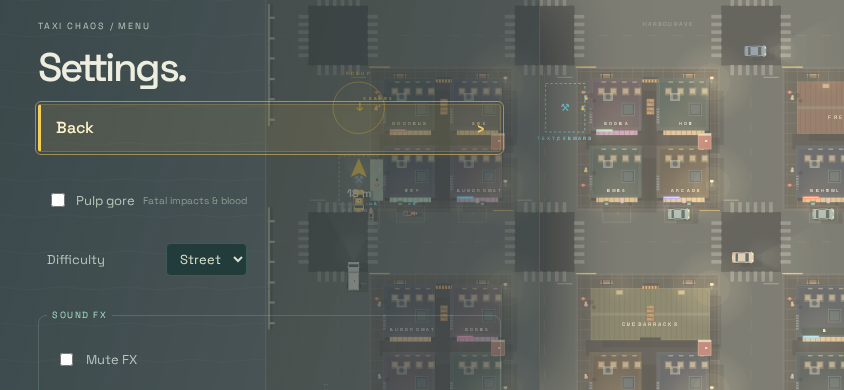
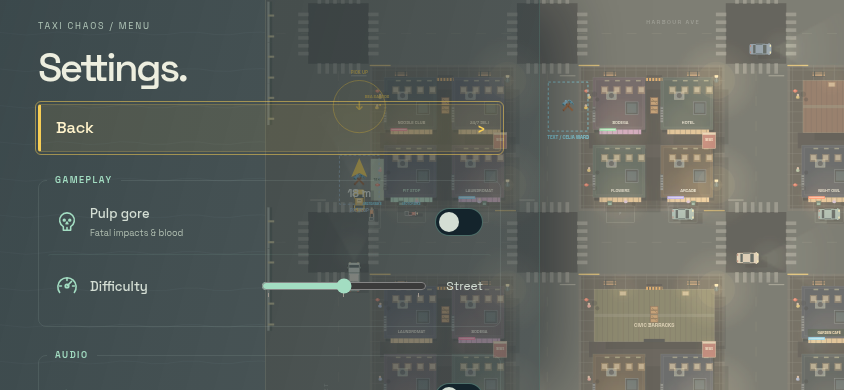
Organize game settings with switches and sliders (#38)
* Organize settings with arrow controls and top-level credits

* Use switches and sliders for game settings

* Encapsulate settings behaviour in typed switch and slider controls

---------

diff --git a/src/game-drawer.ts b/src/game-drawer.ts
@@ -1,8 +1,8 @@
 import type { Game } from './game';
 import type { AudioFX } from './audio';
-import type { Difficulty } from './rules';
+import { createSettings, type SettingsControls } from './settings';
+import { bindSettingControls } from './setting-controls';
 import type { Allegation } from './campaign/model';
-import { bindAudioControls } from './audio-controls';
 import { DrawerMenu } from './drawer-menu';
 import { drawerMarkup, drawerParent, isDrawerPage } from './drawer-view';
 import { splashPrompts, type InputDevice } from './splash';
@@ -10,12 +10,15 @@ import type { DrawerPage } from './drawer-markup';
 
 // Owns only the title/pause drawer. Gameplay, garage and recovery stay in main.
 export class GameDrawer {
+  private settings: SettingsControls;
+  private refreshSettings = () => {};
   private page: DrawerPage = 'home';
   private transition?: Animation;
   private selections = new Map<DrawerPage, string>();
   private menu: DrawerMenu;
   private device: InputDevice = 'keyboard';
   constructor(private root: HTMLElement, private options: { game: () => Game; audio: AudioFX; saved: boolean; play: () => void }) {
+    this.settings = createSettings(options.game, options.audio);
     this.menu = new DrawerMenu(root, () => this.active && !this.transition && !root.closest('[inert]'));
     root.addEventListener('click', event => {
       const button = event.target instanceof Element ? event.target.closest<HTMLButtonElement>('button') : null;
@@ -33,11 +36,6 @@ export class GameDrawer {
       if (button.dataset.submit && game.submitMaterial(button.dataset.submit)) this.refresh();
       if (button.dataset.publish && game.requestPublication(button.dataset.publish as Allegation)) this.refresh();
     });
-    root.addEventListener('change', event => {
-      const input = event.target as HTMLInputElement | HTMLSelectElement;
-      if (input.id === 'gore-option') options.game().configure({ gore: (input as HTMLInputElement).checked });
-      if (input.id === 'difficulty-option') options.game().configure({ difficulty: input.value as Difficulty });
-    });
     root.addEventListener('input', event => {
       if ((event.target as HTMLElement).id === 'notebook-search') this.filterNotebook();
     });
@@ -49,13 +47,9 @@ export class GameDrawer {
   }
   refresh() {
     this.transition?.cancel(); this.transition = undefined;
-    // Keep native controls mounted: changing a setting needs no DOM/focus rebuild.
-    if (this.page === 'settings' && this.root.dataset.page === 'settings') {
-      this.root.classList.add('splash-modal');
-      const { settings } = this.options.game();
-      this.root.querySelector<HTMLInputElement>('#gore-option')!.checked = settings.gore;
-      this.root.querySelector<HTMLSelectElement>('#difficulty-option')!.value = settings.difficulty;
-    } else this.paint();
+    this.root.classList.add('splash-modal');
+    if (this.page === 'settings' && this.root.dataset.page === 'settings') this.refreshSettings();
+    else this.paint();
   }
   async open(page: DrawerPage, { animate = true } = {}) {
     // Capture previews can choose a page before entering paused mode.
@@ -83,6 +77,7 @@ export class GameDrawer {
     void this.open(parent); return true;
   }
   move(delta: number) { if (this.active && !this.transition) this.menu.move(delta); }
+  adjust(delta: number) { if (this.active && !this.transition) this.menu.adjust(delta); }
   activate() { if (this.active && !this.transition) this.menu.activate(); }
   handleKey(event: KeyboardEvent) {
     if (!this.active) return false;
@@ -106,9 +101,9 @@ export class GameDrawer {
     this.root.dataset.page = this.page;
     this.root.classList.add('splash-modal');
     this.root.classList.toggle('notebook-modal', this.page === 'notebook');
-    this.root.innerHTML = `<div class="drawer-page${direction ? ' drawer-entering' : ''}" style="--drawer-direction:${direction}">${drawerMarkup(this.page, { game: this.options.game(), audio: this.options.audio, saved: this.options.saved })}</div>`;
+    this.root.innerHTML = `<div class="drawer-page${direction ? ' drawer-entering' : ''}" style="--drawer-direction:${direction}">${drawerMarkup(this.page, { game: this.options.game(), settings: this.settings, saved: this.options.saved })}</div>`;
     if (search) { this.root.querySelector<HTMLInputElement>('#notebook-search')!.value = search; this.filterNotebook(); }
-    bindAudioControls(this.root, this.options.audio);
+    this.refreshSettings = bindSettingControls(this.root, Object.values(this.settings));
     this.setInputDevice(this.device);
     this.menu.reset(selected);
     this.root.scrollTop = scroll;

diff --git a/src/setting-controls.ts b/src/setting-controls.ts
@@ -1,0 +1,64 @@
+// Match the HUD's monochrome, rounded stroke icons.
+const paths = {
+  gore: '<path d="M8 17v4h8v-4a8 8 0 1 0-8 0Z"/><circle cx="9" cy="10" r="1"/><circle cx="15" cy="10" r="1"/><path d="m11 14 1-2 1 2m-1 4v3"/>',
+  difficulty: '<path d="M4 19a10 10 0 1 1 16 0M12 4v2M4 12h2m12 0h2m-8 0 5-5"/><circle cx="12" cy="12" r="2"/>',
+  muted: '<path d="M11 5 6 9H3v6h3l5 4Zm5 4 6 6m0-6-6 6"/>',
+  volume: '<path d="M11 5 6 9H3v6h3l5 4Zm4 3a5 5 0 0 1 0 8m3-11a9 9 0 0 1 0 14"/>',
+  sirens: '<path d="M6 18v-7a6 6 0 0 1 12 0v7M4 18h16v3H4ZM12 1v1M3 4l2 2m16-2-2 2M1 11h2m18 0h2"/>',
+};
+type SettingBase = { id: string; icon: keyof typeof paths; label: string; hint?: string };
+export type SwitchSetting = SettingBase & {
+  type: 'switch';
+  read: () => boolean;
+  write: (value: boolean) => void;
+};
+export type SliderSetting = SettingBase & {
+  type: 'slider';
+  min: number; max: number; step: number;
+  read: () => number;
+  write: (value: number) => void;
+  format: (value: number) => string;
+  stops?: readonly number[];
+};
+export type Setting = SwitchSetting | SliderSetting;
+
+function switchMarkup(setting: SwitchSetting) {
+  return `<input type="checkbox" role="switch" id="${setting.id}-option" ${setting.read() ? 'checked' : ''}>`;
+}
+function sliderMarkup(setting: SliderSetting) {
+  const { id, min, max, step, stops } = setting, value = setting.read(), text = setting.format(value);
+  return `<input type="range" id="${id}-option" min="${min}" max="${max}" step="${step}" value="${value}" aria-valuetext="${text}" ${stops ? `list="${id}-stops"` : ''}><output for="${id}-option">${text}</output>${stops ? `<datalist id="${id}-stops">${stops.map(stop => `<option value="${stop}"></option>`).join('')}</datalist>` : ''}`;
+}
+export function settingRow(setting: Setting) {
+  const control = setting.type === 'switch' ? switchMarkup(setting) : sliderMarkup(setting);
+  return `<label class="setting-row" data-setting="${setting.id}" for="${setting.id}-option">
+    <svg viewBox="0 0 24 24" fill="none" stroke="currentColor" stroke-width="1.7" stroke-linecap="round" stroke-linejoin="round" aria-hidden="true">${paths[setting.icon]}</svg>
+    <span class="setting-label">${setting.label}${setting.hint ? `<small>${setting.hint}</small>` : ''}</span>
+    <span class="setting-value${setting.type === 'switch' ? ' setting-toggle' : ''}">${control}</span>
+  </label>`;
+}
+
+function bindSwitch(input: HTMLInputElement, setting: SwitchSetting) {
+  const refresh = () => { input.checked = setting.read(); };
+  input.addEventListener('input', () => { setting.write(input.checked); refresh(); });
+  return refresh;
+}
+function bindSlider(input: HTMLInputElement, setting: SliderSetting) {
+  const output = input.parentElement!.querySelector('output')!;
+  const refresh = () => {
+    const value = setting.read(), text = setting.format(value);
+    input.value = String(value);
+    input.setAttribute('aria-valuetext', text);
+    if (output.textContent !== text) output.textContent = text;
+  };
+  input.addEventListener('input', () => { setting.write(input.valueAsNumber); refresh(); });
+  return refresh;
+}
+export function bindSettingControls(root: HTMLElement, settings: readonly Setting[]): () => void {
+  const refreshers: (() => void)[] = [];
+  for (const setting of settings) {
+    const input = root.querySelector<HTMLInputElement>(`#${setting.id}-option`);
+    if (input) refreshers.push(setting.type === 'switch' ? bindSwitch(input, setting) : bindSlider(input, setting));
+  }
+  return () => { for (const refresh of refreshers) refresh(); };
+}

diff --git a/src/drawer-view.ts b/src/drawer-view.ts
@@ -1,9 +1,9 @@
 import type { Game } from './game';
-import type { AudioFX } from './audio';
-import { difficulties } from './rules';
+import type { SettingsControls } from './settings';
+import { settingRow } from './setting-controls';
 import { calendarLabel } from './campaign/clock';
 import { notebookMarkup, notebookGuideMarkup } from './campaign/view';
-import { audioMarkup, audioCreditsMarkup } from './audio-controls';
+import { audioCreditsMarkup } from './audio-controls';
 import { splashMarkup, streetRulesMarkup, shiftMarkup } from './splash';
 import { drawerHeading, menuItem, type DrawerPage } from './drawer-markup';
 
@@ -12,16 +12,22 @@ const pages = {
   settings: { title: 'Settings.', parent: 'home' },
   rules: { title: 'The street rules.', parent: 'home' },
   shift: { title: 'This shift.', parent: 'home' },
-  credits: { title: 'Sound credits.', parent: 'settings' },
+  credits: { title: 'Credits.', parent: 'home' },
   notebook: { title: '', parent: 'home' },
   'notebook-guide': { title: 'Keeping records.', parent: 'notebook' },
 } as const satisfies Record<DrawerPage, { title: string; parent: DrawerPage | null }>;
 export const drawerParent = (page: DrawerPage) => pages[page].parent;
 export const isDrawerPage = (page: string): page is DrawerPage => Object.hasOwn(pages, page);
 
-function settingsMarkup(game: Game, audio: AudioFX) {
-  const choices = Object.entries(difficulties).map(([key, value]) => `<option value="${key}" ${game.settings.difficulty === key ? 'selected' : ''}>${value.name}</option>`).join('');
-  return `<div class="play-options"><label class="menu-field"><input id="gore-option" type="checkbox" ${game.settings.gore ? 'checked' : ''}> Pulp gore <span>Fatal impacts & blood</span></label><label class="menu-field">Difficulty <select id="difficulty-option" aria-label="Gameplay difficulty">${choices}</select></label></div>${audioMarkup(audio, { credits: 'page' })}`;
+function settingsMarkup(settings: SettingsControls) {
+  return `<fieldset class="settings-group"><legend>GAMEPLAY</legend>
+    ${settingRow(settings.gore)}
+    ${settingRow(settings.difficulty)}
+  </fieldset><fieldset class="settings-group"><legend>AUDIO</legend>
+    ${settingRow(settings.muted)}
+    ${settingRow(settings.volume)}
+    ${settingRow(settings.sirens)}
+  </fieldset>`;
 }
 function campaignMarkup(game: Game) {
   if (game.mode !== 'paused' || !game.campaignEnabled) return '';
@@ -33,12 +39,12 @@ function campaignMarkup(game: Game) {
     ${!game.garageNear && !game.save.campaign.finished ? menuItem('Route to Pit Stop', { id: 'sleep-route' }) : ''}
     ${game.job.stage === 'dropoff' ? menuItem('Abandon this ride', { id: 'abandon-ride' }) : menuItem('Ask dispatch for an ordinary fare', { id: 'ordinary-fare' })}</div>`;
 }
-export function drawerMarkup(page: DrawerPage, { game, audio, saved }: { game: Game; audio: AudioFX; saved: boolean }): string {
+export function drawerMarkup(page: DrawerPage, { game, settings, saved }: { game: Game; settings: SettingsControls; saved: boolean }): string {
   let body: string;
   switch (page) {
     case 'home': return splashMarkup(game, saved);
     case 'notebook': return notebookMarkup(game);
-    case 'settings': body = settingsMarkup(game, audio); break;
+    case 'settings': body = settingsMarkup(settings); break;
     case 'rules': body = streetRulesMarkup(); break;
     case 'shift': body = shiftMarkup(game, campaignMarkup(game)); break;
     case 'credits': body = audioCreditsMarkup(); break;

diff --git a/src/drawer.css b/src/drawer.css
@@ -29,3 +29,23 @@
 @media(prefers-reduced-motion:reduce){.drawer-entering{animation:none}.splash-modal .menu-item,.splash-modal .menu-item::after,.splash-modal .menu-field{transition:none}}
 @media(max-width:700px){.splash-modal{width:min(420px,calc(100vw - 24px));padding:max(24px,env(safe-area-inset-top)) max(24px,env(safe-area-inset-right)) max(24px,env(safe-area-inset-bottom)) max(24px,env(safe-area-inset-left))}.splash-modal h2{font-size:clamp(34px,8vw,48px)}.splash-save{padding:14px}.splash-save-heading{flex-wrap:wrap}.splash-save-heading small{margin-left:0;width:100%}.splash-snapshot strong{font-size:22px}.splash-modal .intro-controls{gap:8px;font-size:9px}.splash-modal .intro-grid{grid-template-columns:1fr}.splash-modal .intro-grid>div>span{margin-bottom:5px}}
 @media(max-height:650px){.splash-modal{padding-top:20px;padding-bottom:20px}.splash-modal h2{font-size:40px;margin-top:14px}.drawer-page>.intro-copy{margin-bottom:14px}.splash-snapshot{padding:12px 0}}
+/* Settings share the drawer palette, with native controls and aligned values. */
+.settings-group{min-width:0;margin:22px 0 0;padding:4px 8px 8px;border:1px solid var(--border);border-radius:8px}
+.settings-group legend{padding:0 8px;font-size:9px;font-weight:600;letter-spacing:1.5px;color:var(--mint)}
+.setting-row{display:flex;align-items:center;gap:12px;min-height:64px;padding:8px;border:1px solid transparent;border-radius:4px;color:#d4ded4;cursor:pointer}
+.setting-row+.setting-row{border-top-color:#a3ddc215}
+.setting-row:has([data-selected]){background:#f7ce5510;border-color:#f7ce5555;color:#fff3cb}
+.setting-row>svg{flex:0 0 22px;color:var(--mint)}
+.setting-label{flex:1;min-width:0;font-size:13px;font-weight:500}
+.setting-label small{display:block;margin-top:5px;font-size:9px;font-weight:400;color:#aebcaf;line-height:1.5}
+.setting-value{display:flex;align-items:center;gap:12px;width:52%;min-width:0}
+.setting-value output{flex:0 0 44px;text-align:right;font-size:12px;font-variant-numeric:tabular-nums}
+.setting-value input[type=range]{flex:1;width:0;min-width:0;height:44px;margin:0;accent-color:var(--mint);cursor:pointer}
+.setting-value.setting-toggle{justify-content:flex-end}
+.setting-value input[type=checkbox]{appearance:none;position:relative;width:48px;height:28px;margin:8px 0;border:1px solid #a3ddc266;border-radius:20px;background:#14242c;cursor:pointer;transition:background .15s}
+.setting-value input[type=checkbox]::before{content:'';position:absolute;width:20px;height:20px;left:3px;top:3px;border-radius:50%;background:#d4ded4;transition:transform .15s}
+.setting-value input[type=checkbox]:checked{background:var(--mint);border-color:var(--mint)}
+.setting-value input[type=checkbox]:checked::before{transform:translateX(20px);background:#17262d}
+.setting-value input:focus-visible{outline:1px solid var(--gold);outline-offset:3px}
+@media(max-width:380px){.settings-group{padding-inline:2px}.setting-row{gap:8px;padding-inline:4px}.setting-label{font-size:11px}.setting-value{gap:6px}.setting-value output{flex-basis:36px;font-size:11px}.setting-row>svg{flex-basis:18px;width:18px}}
+@media(prefers-reduced-motion:reduce){.setting-value input[type=checkbox],.setting-value input[type=checkbox]::before{transition:none}}

diff --git a/src/settings.test.ts b/src/settings.test.ts
@@ -1,0 +1,56 @@
+import { describe, expect, it, vi } from 'vitest';
+import type { AudioFX } from './audio';
+import { Game } from './game';
+import { createSettings } from './settings';
+import { settingRow } from './setting-controls';
+
+function audioStub() {
+  const audio = {
+    preferences: { muted: false, volume: 0.65, sirens: 0.25 },
+    configure: vi.fn((patch: Parameters<AudioFX['configure']>[0]) => { Object.assign(audio.preferences, patch); }),
+    unlock: vi.fn(async () => true),
+  };
+  return audio;
+}
+
+describe('typed setting controls', () => {
+  it('renders a switch for a new setting without interpreting its ID or label', () => {
+    const markup = settingRow({ id: 'captions', icon: 'volume', label: 'Captions', type: 'switch', read: () => true, write: () => {} });
+    expect(markup).toContain('type="checkbox" role="switch" id="captions-option" checked');
+    expect(markup).not.toContain('type="range"');
+  });
+  it('keeps a slider numeric value separate from its formatted display', () => {
+    const markup = settingRow({ id: 'steering', icon: 'difficulty', label: 'Steering', type: 'slider', min: 0.5, max: 2, step: 0.25, read: () => 1.5, write: () => {}, format: value => `×${value}` });
+    expect(markup).toContain('min="0.5" max="2" step="0.25" value="1.5"');
+    expect(markup).toContain('aria-valuetext="×1.5"');
+    expect(markup).toContain('<output for="steering-option">×1.5</output>');
+  });
+  it('reads and writes gameplay settings on the current game instance', () => {
+    let game = new Game(undefined, false);
+    const previousGame = game;
+    const controls = createSettings(() => game, audioStub());
+    game = new Game(undefined, false);
+    controls.gore.write(true);
+    controls.difficulty.write(2);
+    expect(game.settings.gore).toBe(true);
+    expect(game.settings.difficulty).toBe('chaos');
+    expect(controls.gore.read()).toBe(true);
+    expect(controls.difficulty.format(controls.difficulty.read())).toBe('Chaos');
+    expect(previousGame.settings.gore).toBe(false);
+    expect(previousGame.settings.difficulty).toBe('standard');
+  });
+  it('keeps audio conversion, mute and unlocking in their own setting definitions', () => {
+    const audio = audioStub();
+    const controls = createSettings(() => new Game(undefined, false), audio);
+    controls.volume.write(42);
+    expect(audio.preferences).toEqual({ muted: false, volume: 0.42, sirens: 0.25 });
+    controls.sirens.write(0);
+    expect(audio.preferences).toEqual({ muted: false, volume: 0.42, sirens: 0 });
+    controls.muted.write(true);
+    expect(audio.preferences.muted).toBe(true);
+    expect(audio.unlock).toHaveBeenCalledTimes(3);
+    audio.preferences.volume = 0.81;
+    expect(controls.volume.read()).toBe(81);
+    expect(controls.volume.format(controls.volume.read())).toBe('81%');
+  });
+});

diff --git a/src/settings.ts b/src/settings.ts
@@ -1,0 +1,43 @@
+import type { Game } from './game';
+import type { AudioFX } from './audio';
+import { difficulties, type Difficulty } from './rules';
+import type { Setting } from './setting-controls';
+
+const difficultyLevels = Object.keys(difficulties) as Difficulty[];
+const percent = (value: number) => `${value}%`;
+
+// Each setting owns its domain value and update; controls only know their type.
+export function createSettings(game: () => Game, audio: Pick<AudioFX, 'preferences' | 'configure' | 'unlock'>) {
+  return {
+    gore: {
+      id: 'gore', icon: 'gore', label: 'Pulp gore', hint: 'Fatal impacts & blood', type: 'switch',
+      read: () => game().settings.gore,
+      write: (gore: boolean) => game().configure({ gore }),
+    },
+    difficulty: {
+      id: 'difficulty', icon: 'difficulty', label: 'Difficulty', type: 'slider',
+      min: 0, max: difficultyLevels.length - 1, step: 1, stops: difficultyLevels.map((_, index) => index),
+      read: () => difficultyLevels.indexOf(game().settings.difficulty),
+      write: (level: number) => game().configure({ difficulty: difficultyLevels[level] }),
+      format: (level: number) => difficulties[difficultyLevels[level]].name,
+    },
+    muted: {
+      id: 'muted', icon: 'muted', label: 'Mute FX', type: 'switch',
+      read: () => audio.preferences.muted,
+      write: (muted: boolean) => { audio.configure({ muted }); void audio.unlock(); },
+    },
+    volume: {
+      id: 'volume', icon: 'volume', label: 'FX volume', type: 'slider',
+      min: 0, max: 100, step: 1, format: percent,
+      read: () => Math.round(audio.preferences.volume * 100),
+      write: (volume: number) => { audio.configure({ volume: volume / 100 }); void audio.unlock(); },
+    },
+    sirens: {
+      id: 'sirens', icon: 'sirens', label: 'Sirens', type: 'slider',
+      min: 0, max: 100, step: 1, format: percent,
+      read: () => Math.round(audio.preferences.sirens * 100),
+      write: (sirens: number) => { audio.configure({ sirens: sirens / 100 }); void audio.unlock(); },
+    },
+  } satisfies Record<string, Setting>;
+}
+export type SettingsControls = ReturnType<typeof createSettings>;

diff --git a/src/audio-controls.ts b/src/audio-controls.ts
@@ -32,6 +32,6 @@ export function refreshAudioControls(audio: AudioFX) {
   for (const output of Array.from(document.querySelectorAll<HTMLOutputElement>('[data-audio-out]'))) {
     const key = output.dataset.audioOut as 'volume' | 'sirens'; output.textContent = `${Math.round(state[key] * 100)}%`;
   }
-  const message = state.muted ? 'FX muted.' : state.volume === 0 ? 'FX volume is zero.' : state.status === 'locked' ? 'Sound starts with your first click or driving key.' : state.status === 'loading' ? 'Preparing sound FX…' : state.status === 'unavailable' ? 'Sound unavailable in this browser.' : state.context !== 'running' ? 'Click or press a driving key to resume sound.' : state.failures.length ? `${state.decoded}/${state.total} sounds ready; some samples unavailable.` : 'FX ready · Sirens at 0% disables sirens.';
+  const message = state.muted ? 'FX muted.' : state.volume === 0 ? 'FX volume is zero.' : state.status === 'locked' ? 'Sound starts with your first click or driving key.' : state.status === 'loading' ? 'Preparing sound FX…' : state.status === 'unavailable' ? 'Sound unavailable in this browser.' : state.context !== 'running' ? 'Click or press a driving key to resume sound.' : state.failures.length ? `${state.decoded}/${state.total} sounds ready; some samples unavailable.` : 'FX ready.';
   for (const label of Array.from(document.querySelectorAll<HTMLElement>('[data-audio-status]'))) label.textContent = message;
 }

diff --git a/src/splash.test.ts b/src/splash.test.ts
@@ -30,14 +30,14 @@ describe('startup splash', () => {
   it('uses equally styled actions and separate pages without accordions', () => {
     const game = new Game(undefined, false);
     const html = splashMarkup(game, false);
-    expect(html.match(/class="menu-item"/g)).toHaveLength(3);
+    expect(html.match(/class="menu-item"/g)).toHaveLength(4);
     expect(html).not.toContain('class="primary"');
     expect(menuItem('<Start>', { id: '"start', disabled: true })).toContain('id="&quot;start" disabled><span>&lt;Start&gt;</span>');
     expect(html).not.toContain('<details'); expect(html).not.toContain('<summary');
     expect(html).not.toContain('Chase the fare.');
     expect(streetRulesMarkup()).toContain('Chase the fare.');
     expect(drawerHeading('Settings.', 'home')).toContain('data-page="home"');
-    expect(drawerHeading('Sound credits.', 'settings')).toContain('data-page="settings"');
+    expect(drawerHeading('Credits.', 'home')).toContain('data-page="home"');
   });
   it('maps prompts to the most recent device', () => {
     expect(splashPrompts('keyboard')).toContain('WASD'); expect(splashPrompts('touch')).toContain('DRAG'); expect(splashPrompts('xbox')).toContain('X'); expect(splashPrompts('playstation')).toContain('□');

diff --git a/src/splash.ts b/src/splash.ts
@@ -38,6 +38,7 @@ export function splashMarkup(game: Game, saved: boolean): string {
       ${menuItem(paused ? 'Resume your shift' : saved ? 'Continue' : 'Start your shift', { id: 'start' })}
       ${menuItem('The street rules', { id: 'menu-rules', page: 'rules' })}
       ${menuItem('Settings', { id: 'menu-settings', page: 'settings' })}
+      ${menuItem('Credits', { id: 'menu-credits', page: 'credits' })}
       ${paused ? `${game.campaignEnabled ? menuItem('Dispatch notebook', { id: 'open-notebook', page: 'notebook' }) : ''}${menuItem('This shift', { id: 'menu-shift', page: 'shift' })}` : ''}
     </nav>
     <p class="menu-hint" id="menu-hint">↑ ↓ Select · Enter Confirm</p><div class="intro-controls" id="splash-prompts"></div>`;

diff --git a/src/drawer-menu.ts b/src/drawer-menu.ts
@@ -71,6 +71,15 @@ export class DrawerMenu {
     this.select(items[(Math.max(0, current) + delta + items.length) % items.length]);
     this.selected?.scrollIntoView({ block: 'nearest' });
   }
+  adjust(delta: number) {
+    const input = this.selected;
+    if (!(input instanceof HTMLInputElement)) return;
+    if (input.type === 'checkbox') input.click();
+    else if (input.type === 'range') {
+      if (delta > 0) input.stepUp(); else input.stepDown();
+      input.dispatchEvent(new Event('input', { bubbles: true }));
+    }
+  }
   activate() { this.selected?.click(); }
   handleKey(event: KeyboardEvent) {
     const native = event.target instanceof Element ? event.target.closest('input, select') : null;

diff --git a/src/main.ts b/src/main.ts
@@ -196,6 +196,8 @@ function pollController() {
   if (activity && pad) { detectInput(/sony|playstation|dualsense|dualshock|054c/i.test(pad.id) ? 'playstation' : 'xbox'); void audio.unlock(); }
   if (pad && drawer.active && !$('overlay').inert) {
     if (pressed[12] && !previousPadButtons[12]) drawer.move(-1);
+    if (pressed[14] && !previousPadButtons[14]) drawer.adjust(-1);
+    if (pressed[15] && !previousPadButtons[15]) drawer.adjust(1);
     if (pressed[13] && !previousPadButtons[13]) drawer.move(1);
     if (pressed[0] && !previousPadButtons[0]) drawer.activate();
     if (pressed[1] && !previousPadButtons[1]) drawer.back();
